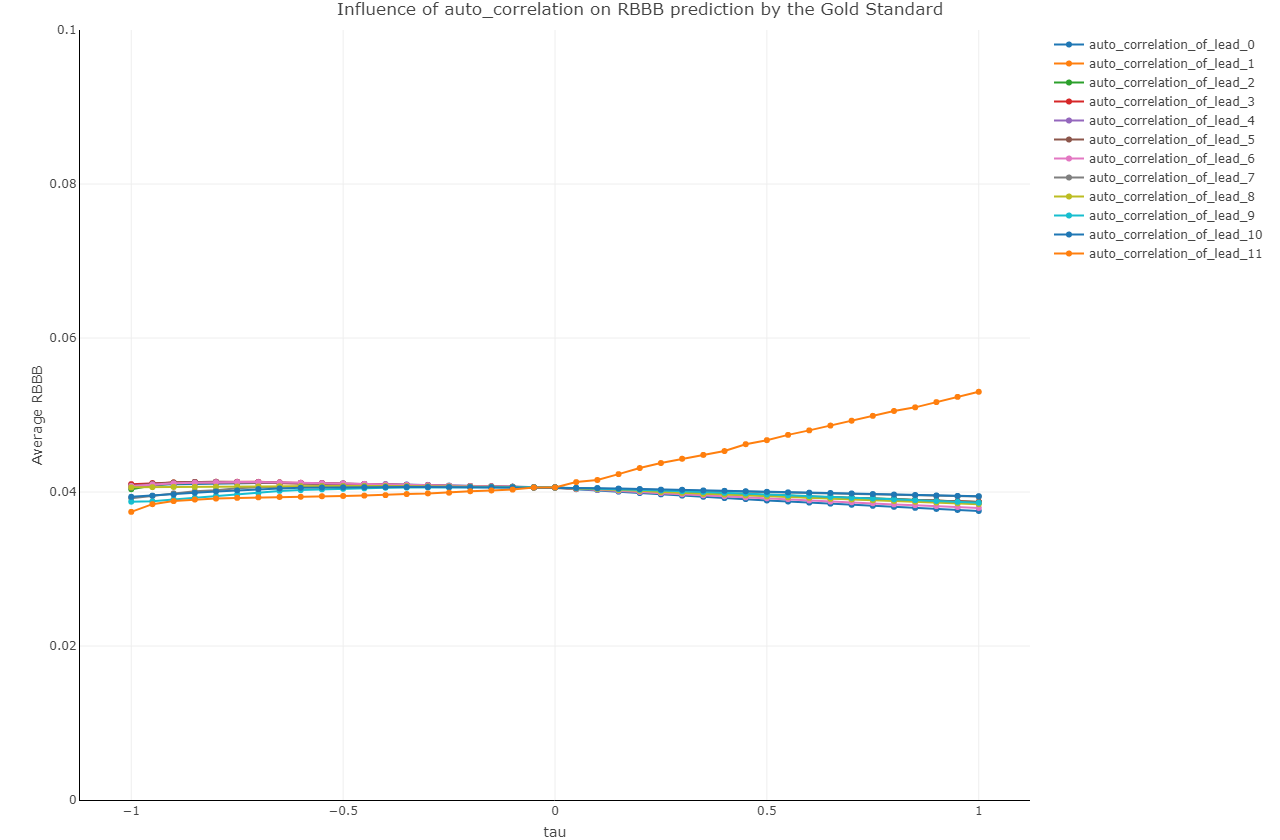
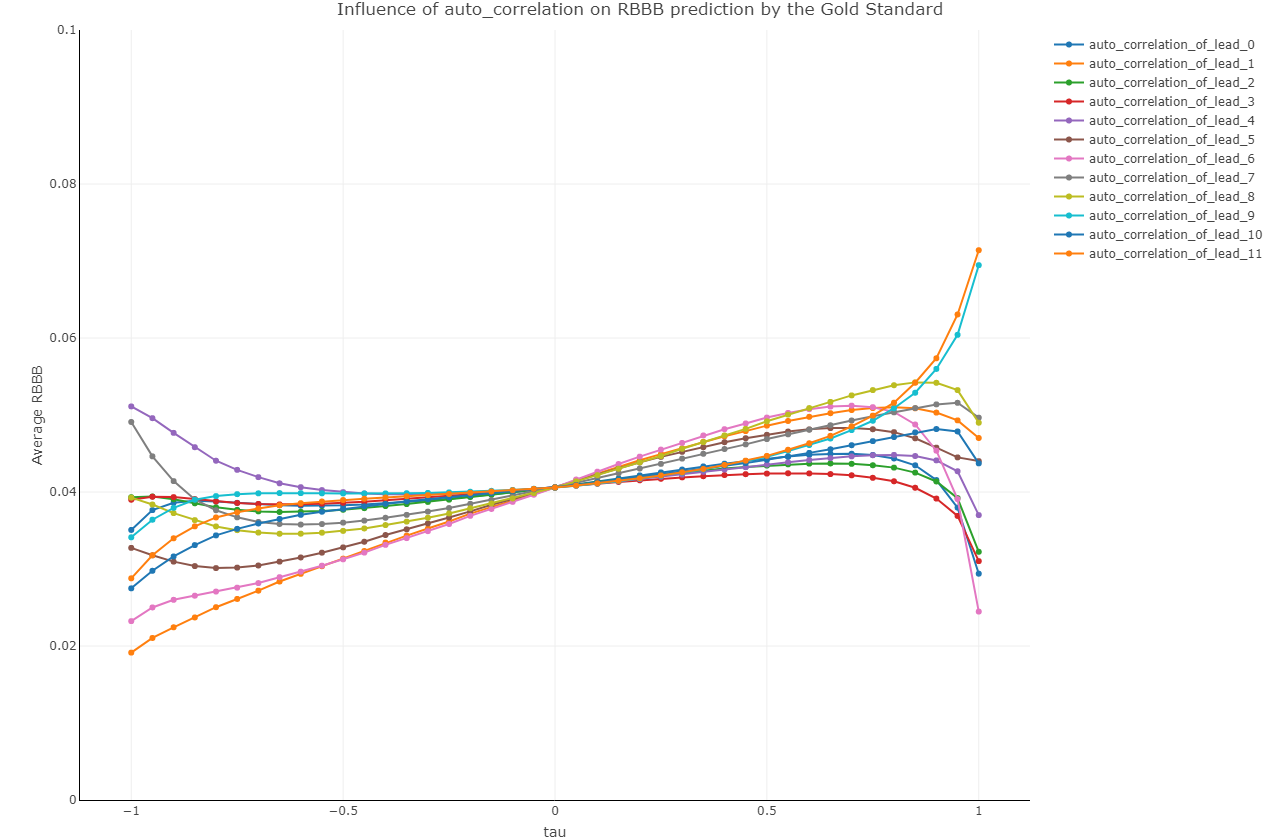
'update'

Changed region(s): [[0.0938, 0.3714, 0.7812, 0.7429], [0.75, 0.3095, 0.7812, 0.3714], [0.0938, 0.4952, 0.1562, 0.5262]]

diff --git a/run_ethik.py b/run_ethik.py
@@ -386,8 +386,8 @@ def save_all_poly_feature_influences_gold():
 #save_all_mono_feature_influences_gold()
 #save_all_poly_feature_influences_gold()
 
-plot_mono_feature_influence_dnn(ft.auto_correlation,save=0)
-plot_mono_feature_influence_gold(ft.auto_correlation,save=0)
+plot_mono_feature_influence_dnn(ft.auto_correlation,save=1)
+plot_mono_feature_influence_gold(ft.auto_correlation,save=1)
 
 """Saving the influence rankings as Excel files"""
 

diff --git a/features.py b/features.py
@@ -92,7 +92,7 @@ def correlation(x,y,tau):
 def auto_correlation(ecg):
     """Computes the auto_correlation of an ecg lead with the lag corresponding to the heartbeat frequency"""
     lag = periods_via_fft(ecg)
-    return correlation(ecg,ecg,lag)
+    return correlation(ecg,ecg,lag)/np.sum(ecg*ecg)
 
 """Poly-features : functions which take all tracing as an (12,_) np.array and return a single float"""
 
